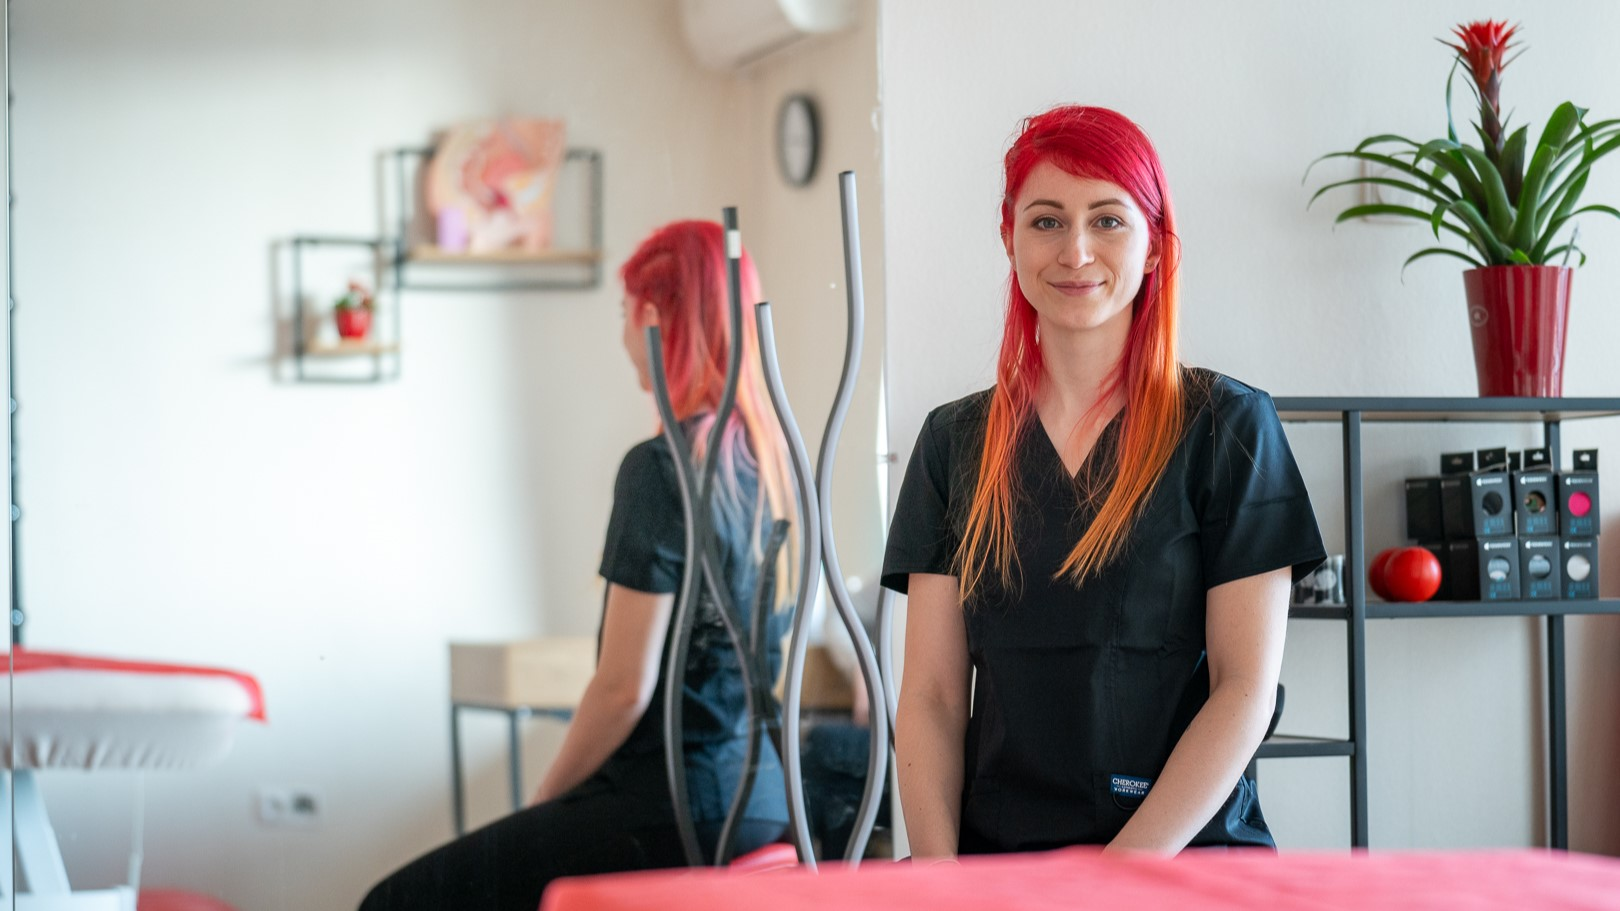
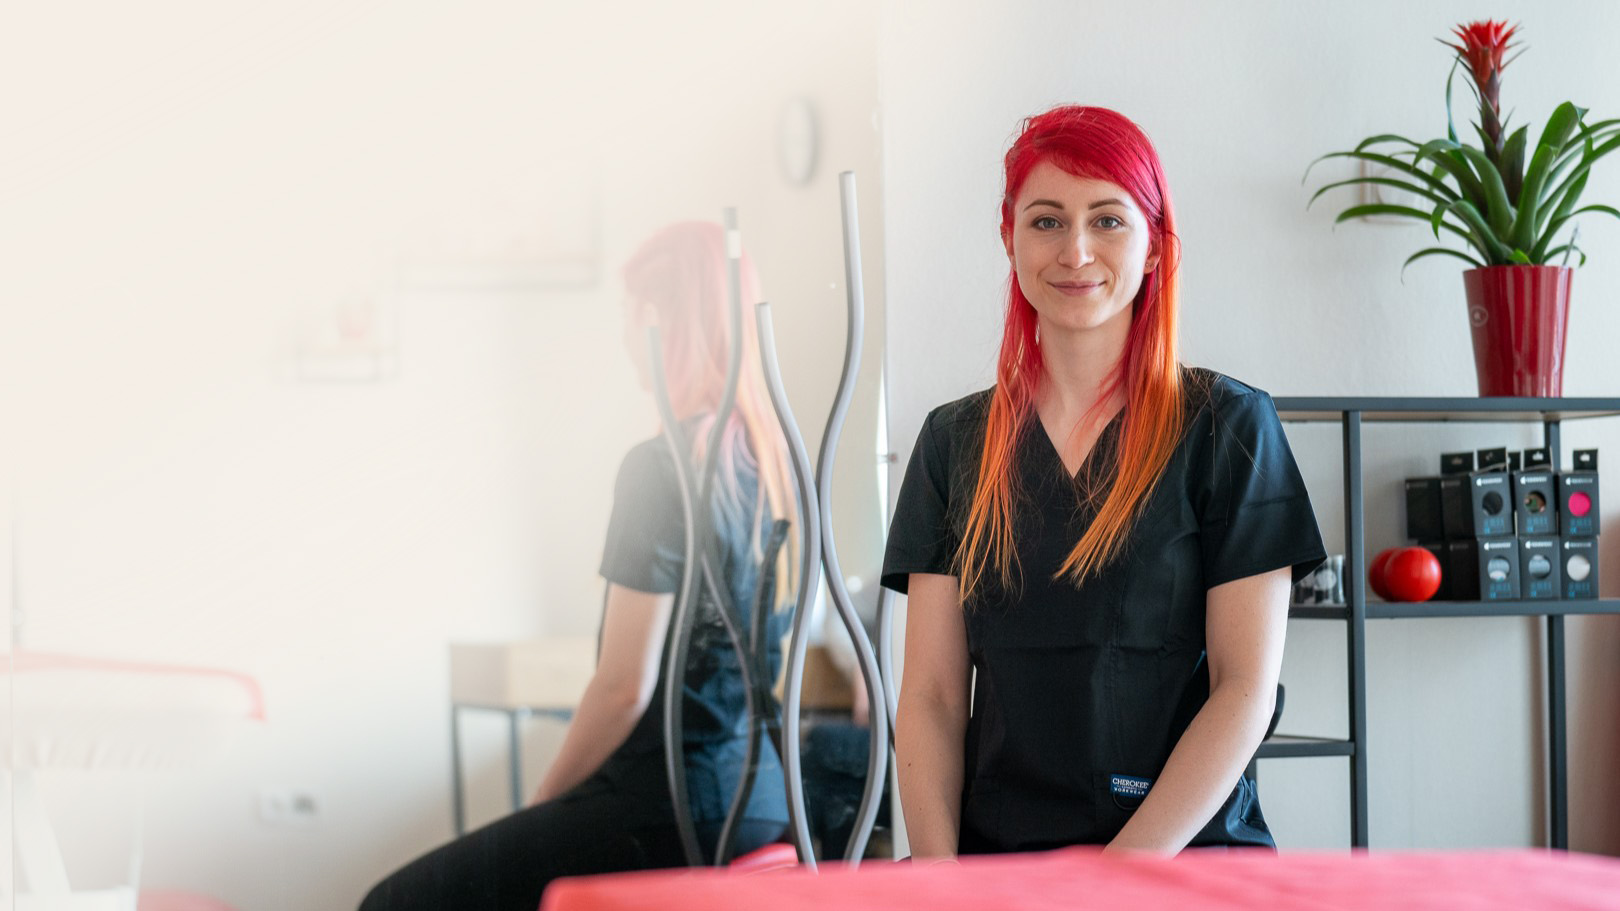
nav and hero edit

Changed region(s): [[0.0, 0.0, 0.5556, 1.0]]

diff --git a/style.css b/style.css
@@ -181,7 +181,7 @@
 /* HERO */
 
 .hero {
-  background-image: url(src/hero_edit.jpg);
+  background-image: url(src/hero.jpg);
   background-size: cover;
   background-position: center;
   background-repeat: no-repeat;
